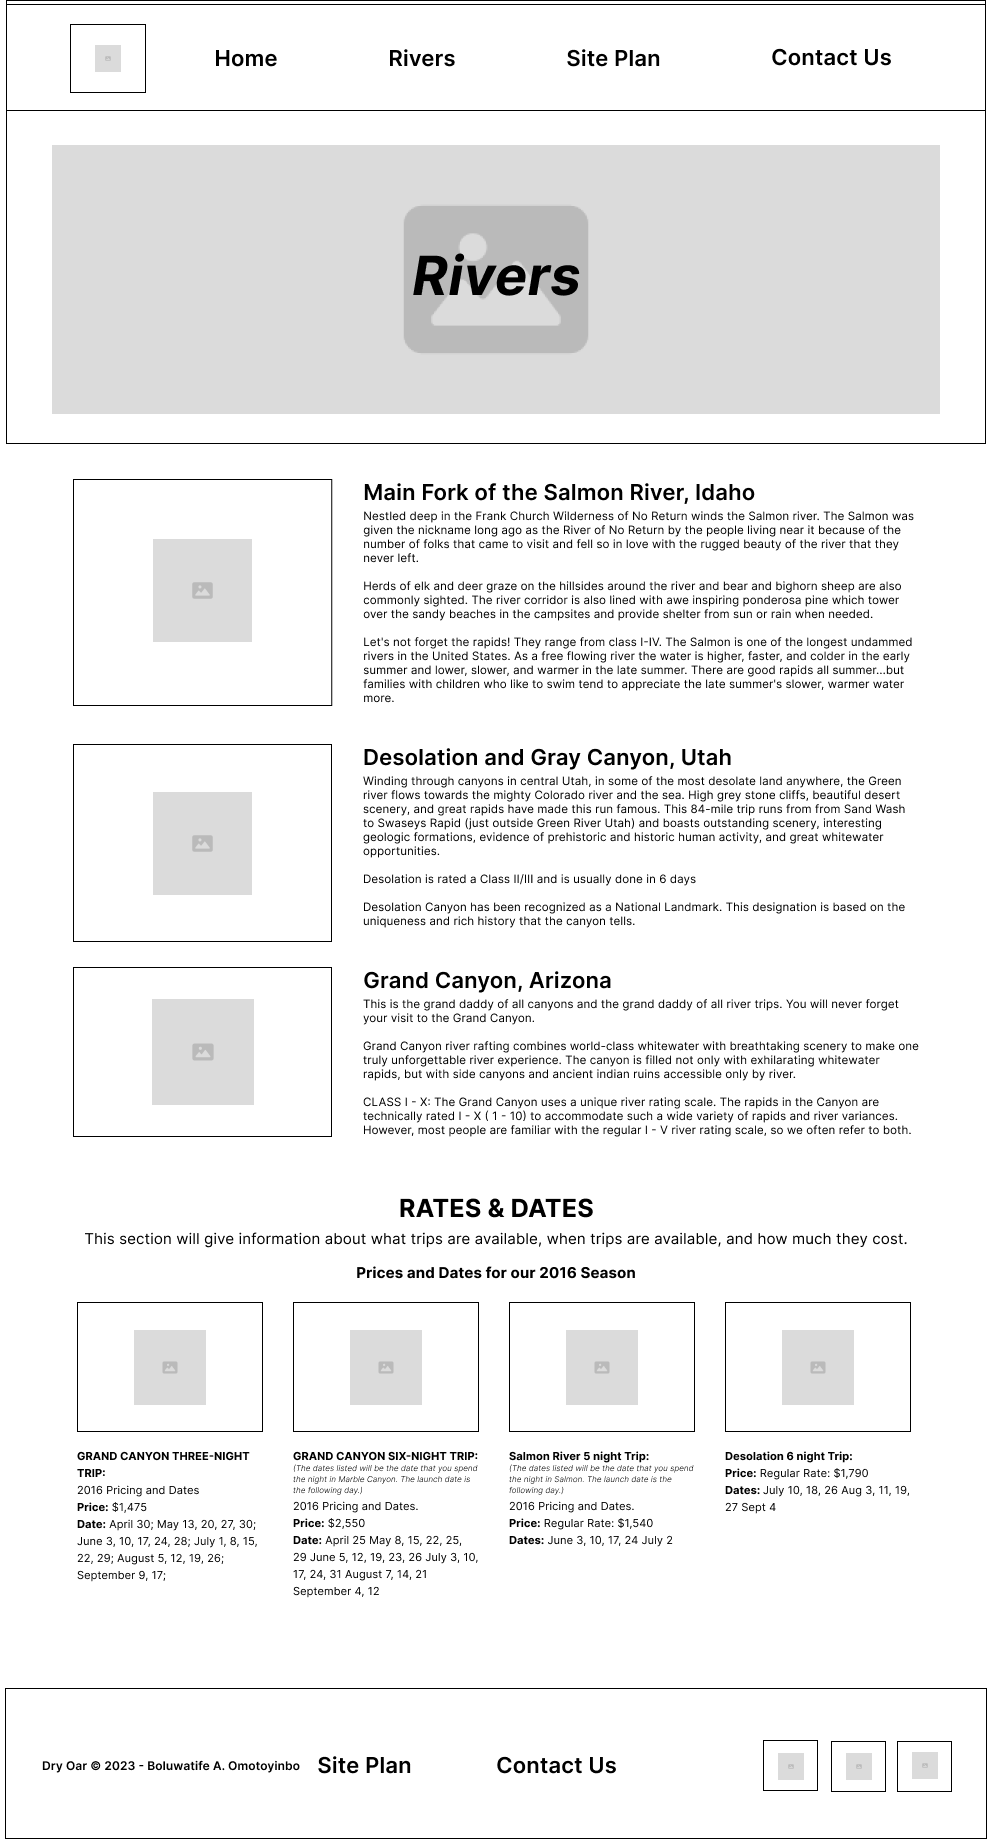
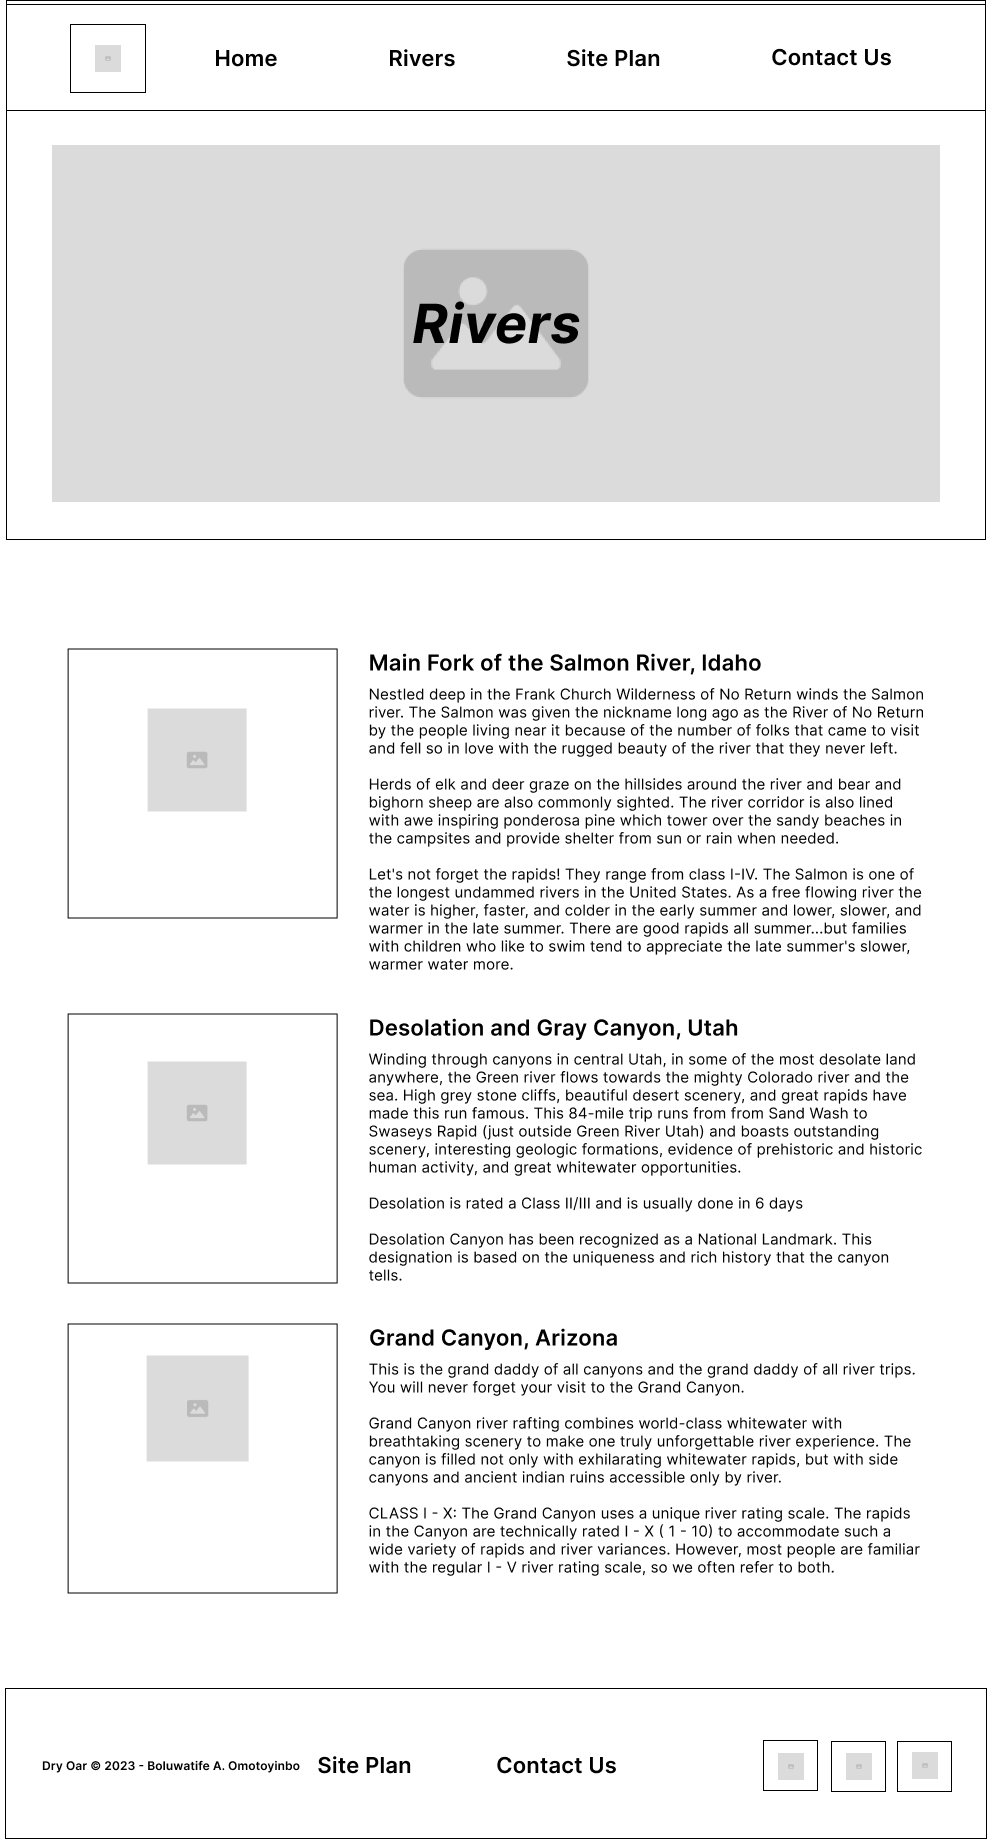
wk9

diff --git a/wwr/rivers.html b/wwr/rivers.html
@@ -1,0 +1,107 @@
+<!DOCTYPE html>
+<html lang="en">
+<head>
+    <meta charset="UTF-8">
+    <meta name="viewport" content="width=device-width, initial-scale=1.0">
+    <title>Rivers</title>
+    <link rel="stylesheet" href="styles/styles.css">
+</head>
+<body>
+    <div>
+        <header>
+            <a id="logo_link" href="index.html">
+                <img class="logo" src="images/logo.png" alt="Dry Oar Logo">
+            </a>
+            <nav>
+                <a href="index.html">Home</a>
+                <a href="rivers.html">Rivers</a>
+                <a href="site-plan-rafting.html">Site Plan</a>
+                <a href="contactus.html">Contact Us</a>
+            </nav>
+        </header>
+        <div id="hero">
+            <div id="hero-box">
+                <img id="hero-img" src="images/hero_transparency_1024.png" alt="People enjoying white water rafting">
+            </div>
+            <section id="hero-msg">
+                <h1 class="home-title">Rivers</h1>
+                <!-- <h4>Memories with Dry Oar</h4> -->
+            </section>
+        </div>
+        <main>
+            <section>
+                <img src="images/rivers.jpg" alt="river in forest">
+                <h2>Main Fork of the Salmon River, Idaho</h2>
+                <p>Nestled deep in the Frank Church Wilderness of No Return winds the Salmon river. 
+                    The Salmon was given the nickname long ago as the River of No Return by the people 
+                    living near it because of the number of folks that came to visit and fell so in love 
+                    with the rugged beauty of the river that they never left.
+                    <br>
+                    <br>
+                    Herds of elk and deer graze on the hillsides around the river and bear and bighorn 
+                    sheep are also commonly sighted. The river corridor is also lined with awe inspiring 
+                    ponderosa pine which tower over the sandy beaches in the campsites and provide shelter 
+                    from sun or rain when needed.
+                    <br>
+                    <br>
+                    Let's not forget the rapids! They range from class I-IV. The Salmon is one of the 
+                    longest undammed rivers in the United States. As a free flowing river the water is 
+                    higher, faster, and colder in the early summer and lower, slower, and warmer in the 
+                    late summer. There are good rapids all summer...but families with children who like 
+                    to swim tend to appreciate the late summer's slower, warmer water more.</p>
+            </section>
+            <section>
+                <img src="images/camping.jpg" alt="tent in mountains">
+                <h2>Desolation and Gray Canyon, Utah</h2>
+                <p>Winding through canyons in central Utah, in some of the most desolate land anywhere, 
+                    the Green river flows towards the mighty Colorado river and the sea. High grey stone 
+                    cliffs, beautiful desert scenery, and great rapids have made this run famous. 
+                    This 84-mile trip runs from from Sand Wash to Swaseys Rapid (just outside Green 
+                    River Utah) and boasts outstanding scenery, interesting geologic formations, evidence 
+                    of prehistoric and historic human activity, and great whitewater opportunities.
+                    <br>
+                    <br>
+                    Desolation is rated a Class II/III and is usually done in 6 days
+                    <br>
+                    <br>
+                    Desolation Canyon has been recognized as a National Landmark.  This designation 
+                    is based on the uniqueness and rich history that the canyon tells.</p>
+            </section>
+            <section>
+                <img src="images/rapids.jpg" alt="rafting boat">
+                <h2>Grand Canyon, Arizona</h2>
+                <p>This is the grand daddy of all canyons and the grand daddy of all river trips. 
+                    You will never forget your visit to the Grand Canyon.
+                    <br>
+                    <br>
+                    Grand Canyon river rafting combines world-class whitewater with breathtaking 
+                    scenery to make one truly unforgettable river experience. The canyon is filled 
+                    not only with exhilarating whitewater rapids, but with side canyons and ancient 
+                    indian ruins accessible only by river.
+                    <br>
+                    <br>
+                    CLASS I - X: The Grand Canyon uses a unique river rating scale. The rapids in 
+                    the Canyon are technically rated I - X ( 1 - 10) to accommodate such a wide 
+                    variety of rapids and river variances. However, most people are familiar with 
+                    the regular I - V river rating scale, so we often refer to both.</p>
+            </section>
+        </main>
+        <footer>
+            <p>Dry Oar &copy; 2023 - Boluwatife A. Omotoyinbo</p>
+            <p><a href="site-plan-rafting.html">Site Plan</a></p>
+            <p><a href="contatus.html">Contact Us</a></p>
+            <div class="social">
+                <a href="https://facebook.com" target="_blank">
+                    <img src="images/facebook.png" alt="fb icon">
+                </a>
+                <a href="https://twitter.com" target="_blank">
+                    <img src="images/twitter.png" alt="twitter icon">
+                </a>
+                <a href="https://instagram.com" target="_blank">
+                    <img src="images/instagram.png" alt="instagram icon">
+                </a>
+            </div>
+        </footer>
+    </div>
+</body>
+</html>

diff --git a/aboutme/wk9-challenge.html b/aboutme/wk9-challenge.html
@@ -1,0 +1,63 @@
+<!DOCTYPE html>
+<html lang="en">
+<head>
+    <meta charset="UTF-8">
+    <meta name="viewport" content="width=device-width, initial-scale=1.0">
+    <title>Week 9 - Challenge</title>
+    <link rel="stylesheet" href="styles/wk9-challenge.css">
+</head>
+<body>
+    <div class="main">
+        <div class="header">
+            <img src="images/w09_ice_img.jpg" alt="City scape">
+        </div>
+        <div class="overflow">
+            <div class="content_head">
+                <p> 3 weeks ago</p>
+                <h1>Post Three</h1>
+            </div>
+            <div class="main_paragraph">
+                <p>From the image below create a webpage to look just like it. 
+                    Try using grid for the layout. The grid doesn't necessarily 
+                    need to be the whole card but at least the bottom portion of 
+                    the card. The card below has a small width so it should look 
+                    good on any screen. The image below is how it would look on a 
+                    medium size screen. You are welcome to work in groups. 
+                    The image is provided below.
+                    <br>
+                    <br>
+                    From the image below create a webpage to look just like it. 
+                    Try using grid for the layout. The grid doesn't necessarily 
+                    need to be the whole card but at least the bottom portion of 
+                    the card. The card below has a small width so it should look 
+                    good on any screen. The image below is how it would look on a 
+                    medium size screen. You are welcome to work in groups. 
+                    The image is provided below.
+                    <br>
+                    <br>
+                    From the image below create a webpage to look just like it. 
+                    Try using grid for the layout. The grid doesn't necessarily 
+                    need to be the whole card but at least the bottom portion of 
+                    the card. The card below has a small width so it should look 
+                    good on any screen. The image below is how it would look on a 
+                    medium size screen. You are welcome to work in groups. 
+                    The image is provided below.
+                </p>
+            </div>
+        </div>
+        <div class="footer">
+            <div class="text">
+                <div>
+                    <p class="foot"> 5<sup>m</sup><br><span>READ</span></p>
+                </div>
+                <div class="middle">
+                    <p class="foot"> 2031<br><span>VIEWS</span></p>
+                </div>
+                <div>
+                    <p class="foot"> 15<br><span>COMMENTS</span></p>
+                </div>
+            </div>
+        </div>
+    </div>
+</body>
+</html>

diff --git a/aboutme/styles/wk9-challenge.css b/aboutme/styles/wk9-challenge.css
@@ -1,0 +1,71 @@
+.main{
+    width: 400px;
+    box-shadow: 0 1px 3px rgba(0, 0, 0, 0.2);
+    margin-bottom: 20px;
+    position: fixed;
+    top: 50%;
+    left: 50%;
+    transform: translate(-50%, -50%);
+    border-radius: 40px;
+    background-color: white
+}
+
+.header{
+    width: 100%;
+    margin-bottom: 5px;
+    border-top-right-radius: 40px;
+    border-top-left-radius: 40px;
+    overflow: hidden;
+}
+img{
+    width: 100%;
+}
+.overflow{
+    margin: 20px;
+    overflow-y: scroll;
+    height:350px;
+}
+.content_head,h1,p{
+    margin: 0%;
+    text-align: center;
+}
+.main_paragraph{
+    padding-top: 20px;
+    padding-bottom: 20px;
+}
+.footer{
+   /* margin-top: 20px; */
+   background-color: rgb(28, 28, 51);
+   /*overflow: hidden;*/
+   border-bottom-left-radius: 40px;
+   border-bottom-right-radius: 40px;
+   height: 70px;
+}
+.text{
+    align-content: center;
+    align-items: center;
+    height: 100%;
+    color: white;
+    display: grid;
+    grid-template-columns: 1fr 1fr 1fr;
+    
+}
+.middle{
+    border-right: 1px solid;
+    border-left: 1px solid;
+    border-color: white;
+    padding-top: 15px;
+    padding-bottom: 15px;
+    /* height: 70px; */
+}
+span{
+    font-size: 12px;
+    font-weight: 50;
+}
+body{
+    background-color: black;
+}
+.foot{
+    font-size: 25px;
+    line-height: 15px;
+}

diff --git a/oaboluwatife/site-plan.html b/oaboluwatife/site-plan.html
@@ -188,22 +188,13 @@
         Create three wireframes for your site. One for each page and list them here</p>
 
       <h3>Home</h3>
-      <p>         
-        [Any additional details about home that the wireframe does not make clear]
-      </p>
-      <img src="#" alt="home page wireframe">
+      <img src="images/SiteMap-Home.png" alt="home page wireframe">
 
-      <h3>[Page 2]</h3>
-      <p>         
-        [Any additional details about page 2 that the wireframe does not make clear]
-      </p>
-      <img src="#" alt="page 2 wireframe">
+      <h3>Blog</h3>
+      <img src="images/SiteMap-Page2.png" alt="page 2 wireframe">
 
-      <h3>[Page 3]</h3>
-      <p>         
-        [Any additional details about page 3 that the wireframe does not make clear]
-      </p>
-      <img src="#" alt="page 3 wireframe">
+      <h3>Resume/Contact</h3>
+      <img src="images/SiteMap-Page3.png" alt="page 3 wireframe">
     </main>
   </body>
 

diff --git a/aboutme/wk9-2.html b/aboutme/wk9-2.html
@@ -1,0 +1,24 @@
+<!DOCTYPE html>
+<html lang="en">
+<head>
+    <meta charset="UTF-8">
+    <meta name="viewport" content="width=device-width, initial-scale=1.0">
+    <title>Document</title>
+    <link rel="stylesheet" href="styles/wk9-2.css">
+</head>
+<body>
+    <div class="post-card">
+        <img src="images/w09_ice_img.jpg" alt="Post image" class="post-card-image">
+        <div class="post-card-content">
+          <h3 class="post-card-title">Post Three</h3>
+          <p class="post-card-excerpt">This would be some text to go here and tell you about this awesome article that they should definitely read.</p>
+          <ul class="post-card-meta">
+            <li>3 weeks ago</li>
+            <li>5m READ</li>
+            <li>2031 VIEWS</li>
+            <li>15 COMMENTS</li>
+          </ul>
+        </div>
+      </div>
+</body>
+</html>

diff --git a/aboutme/styles/wk9-2.css b/aboutme/styles/wk9-2.css
@@ -1,0 +1,39 @@
+.post-card {
+    width: 300px;
+    box-shadow: 0 1px 3px rgba(0, 0, 0, 0.2);
+    margin-bottom: 20px;
+    position: fixed;
+    top: 50%;
+    left: 50%;
+    transform: translate(-50%, -50%);
+  }
+  
+  .post-card-image {
+    width: 100%;
+  }
+  
+  .post-card-content {
+    padding: 20px;
+  }
+  
+  .post-card-title {
+    font-size: 20px;
+    margin-top: 0;
+  }
+  
+  .post-card-excerpt {
+    font-size: 16px;
+    line-height: 1.5em;
+  }
+  
+  .post-card-meta {
+    list-style: none;
+    padding: 0;
+    margin: 20px 0 0;
+  }
+  
+  .post-card-meta li {
+    display: inline-block;
+    margin-right: 10px;
+  }
+  

diff --git a/wwr/index.html b/wwr/index.html
@@ -14,7 +14,7 @@
             </a>
             <nav>
                 <a href="index.html">Home</a>
-                <a href="#">Page 2</a>
+                <a href="rivers.html">Rivers</a>
                 <a href="site-plan-rafting.html">Site Plan</a>
                 <a href="contactus.html">Contact Us</a>
             </nav>
